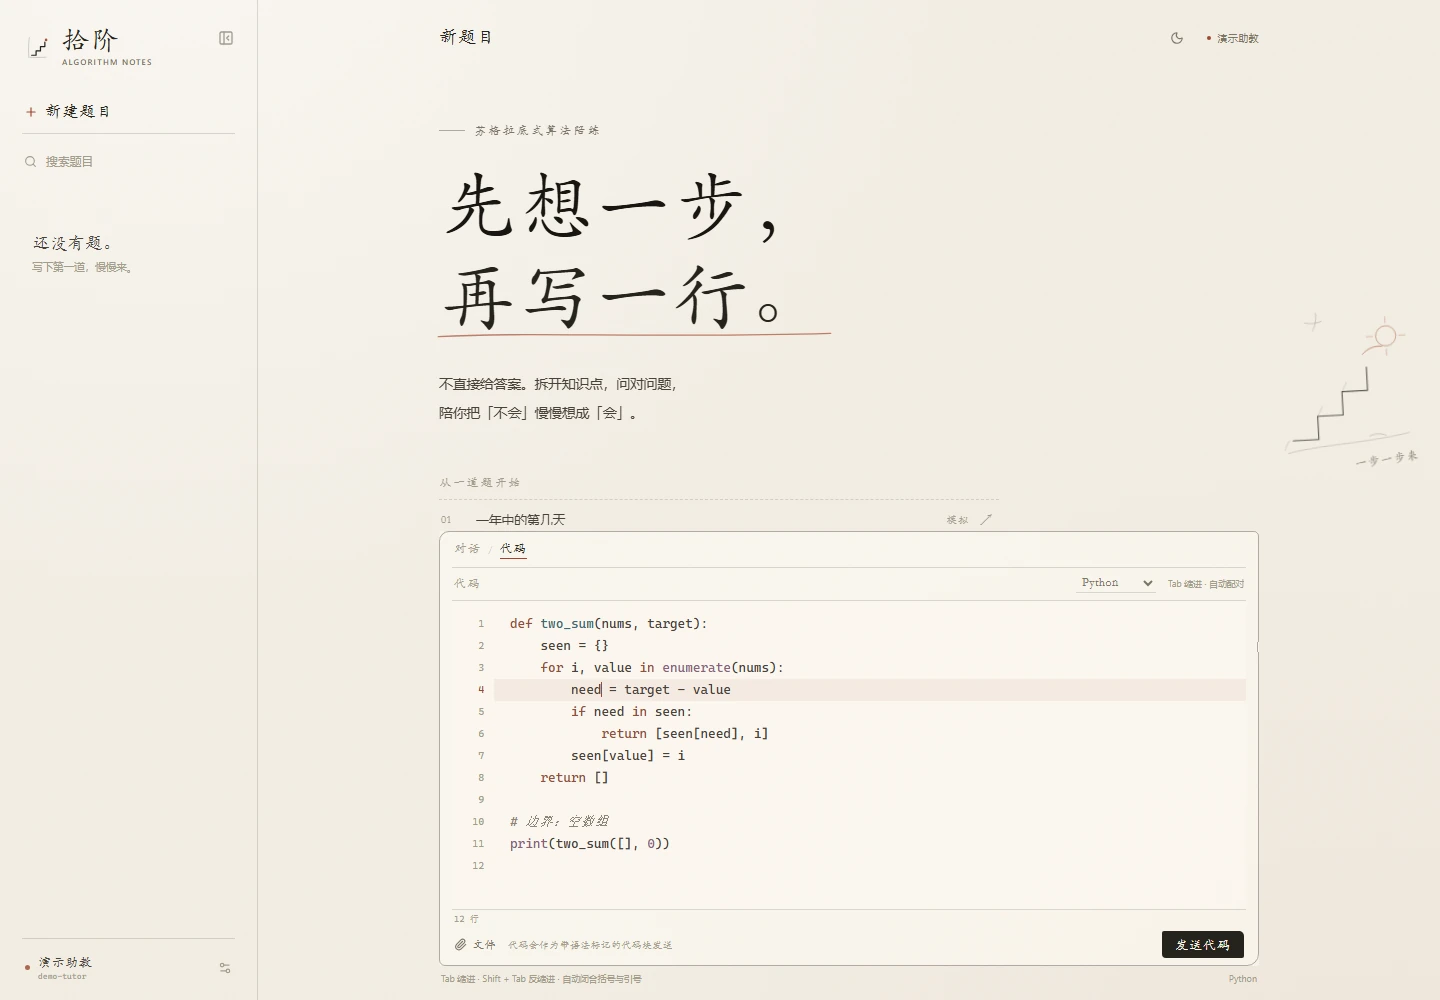
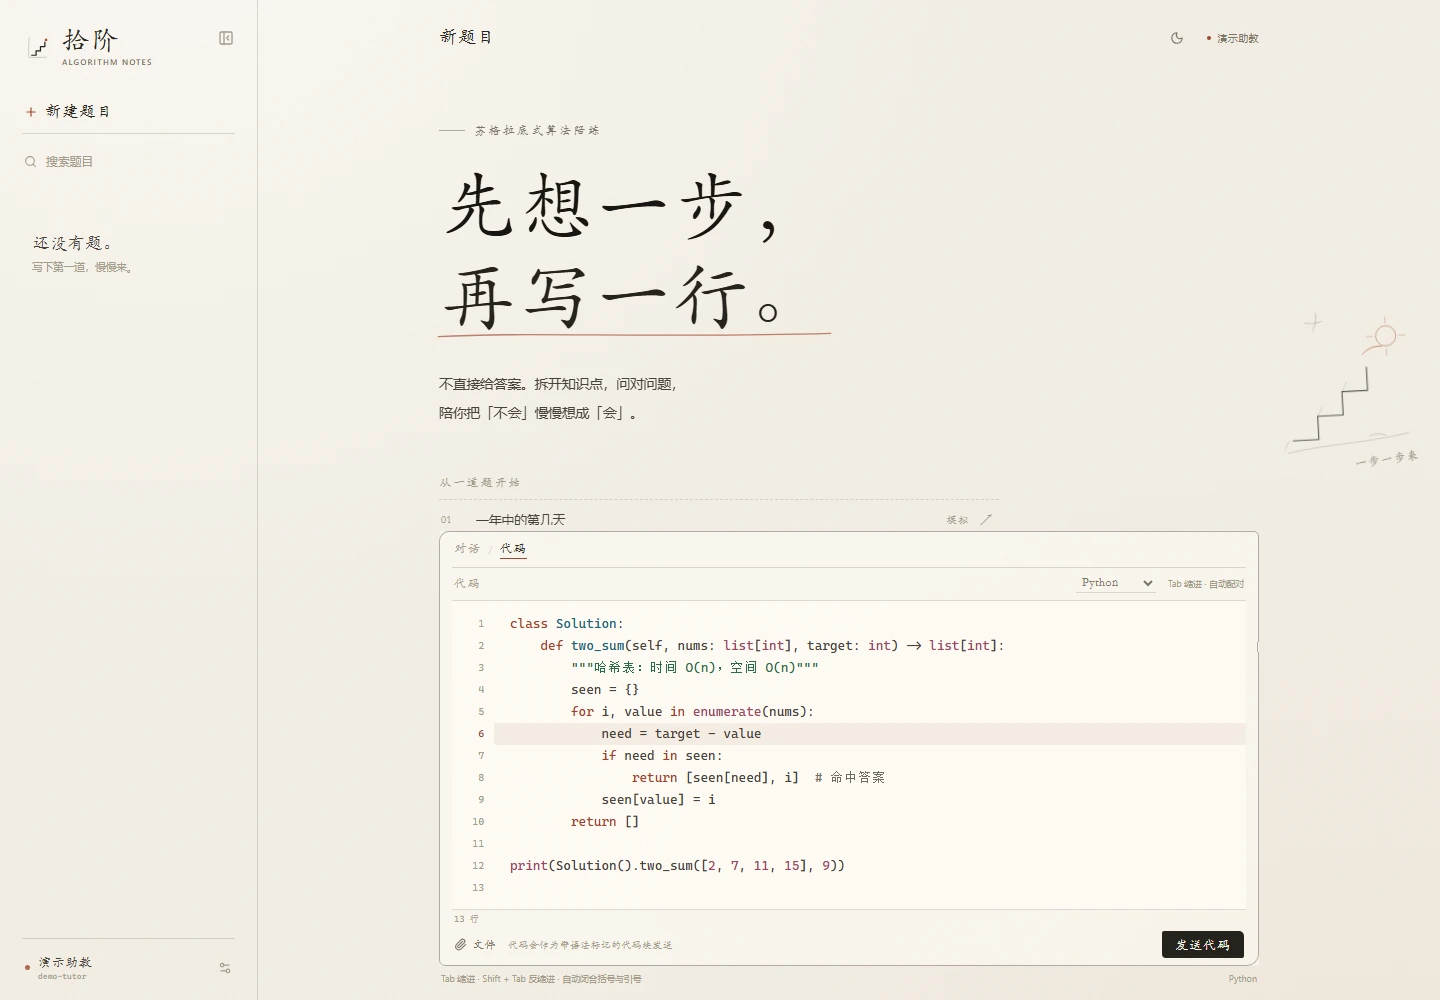
Improve light-mode syntax highlighting
- Add a higher-contrast dual-theme syntax palette for keywords, strings,
  built-ins, functions, types, variables, comments and operators
- Lighten the editor surface in light mode for clearer code contrast
- Normalize token font weight/style to keep highlight and textarea glyphs aligned
- Refresh editor screenshots

Changed region(s): [[0.3438, 0.62, 0.5625, 0.868], [0.6562, 0.62, 0.6875, 0.651], [0.5625, 0.62, 0.5938, 0.651]]

diff --git a/algo-tutor/src/styles.css b/algo-tutor/src/styles.css
@@ -30,8 +30,8 @@
   --panel-bg: rgba(252, 249, 242, 0.72);
   --composer-bg: rgba(252, 249, 242, 0.66);
   --composer-bg-focus: rgba(252, 249, 242, 0.85);
-  --editor-bg: rgba(252, 249, 242, 0.45);
-  --editor-current-line: rgba(158, 71, 47, 0.065);
+  --editor-bg: rgba(255, 252, 246, 0.7);
+  --editor-current-line: rgba(158, 71, 47, 0.08);
   --inline-code-bg: rgba(37, 35, 29, 0.055);
   --hover-bg: rgba(37, 35, 29, 0.045);
   --hover-bg-soft: rgba(37, 35, 29, 0.03);
@@ -45,14 +45,15 @@
   --danger-strong: #843a28;
   --status-green: #6c7e6a;
   --sketch-shadow: rgba(37, 35, 29, 0.05);
-  --editor-keyword: #914f3a;
-  --editor-string: #4f7357;
-  --editor-number: #8b5f7b;
-  --editor-title: #406a73;
-  --editor-comment: #8d8577;
-  --editor-variable: #7a6338;
-  --editor-type: #4f6e4d;
-  --editor-meta: #725984;
+  --editor-keyword: #a53f2b;
+  --editor-string: #2d6a45;
+  --editor-number: #a0445e;
+  --editor-title: #1f6274;
+  --editor-comment: #746b5e;
+  --editor-variable: #8a5a13;
+  --editor-type: #416d31;
+  --editor-meta: #6b478d;
+  --editor-operator: #7e6c58;
 
   --sidebar-width: 258px;
   --rail-width: 64px;
@@ -96,14 +97,15 @@
   --danger-strong: #e1a08a;
   --status-green: #93ad8f;
   --sketch-shadow: rgba(0, 0, 0, 0.32);
-  --editor-keyword: #d8a07e;
-  --editor-string: #a9c9ad;
-  --editor-number: #d0a6bd;
-  --editor-title: #a9cbd0;
-  --editor-comment: #7f877c;
-  --editor-variable: #d8c590;
-  --editor-type: #b2cbaa;
-  --editor-meta: #c9b1d6;
+  --editor-keyword: #f0a07d;
+  --editor-string: #a8d8b2;
+  --editor-number: #e6b0c8;
+  --editor-title: #99d2dc;
+  --editor-comment: #929b8f;
+  --editor-variable: #e8d092;
+  --editor-type: #c1dfb4;
+  --editor-meta: #d3b5e8;
+  --editor-operator: #c0b4a0;
 
   color-scheme: dark;
 }
@@ -4539,9 +4541,20 @@ button:focus:not(:focus-visible) {
   color: var(--accent);
 }
 
+/*
+ * 高亮层与透明 textarea 必须使用完全相同的字形度量。
+ * 主题 CSS 会给部分 token（如 section、emphasis）加粗/倾斜；这里统一复位，
+ * 否则长行中的光标会和高亮文字逐渐错开。
+ */
+.code-editor .code-highlight-scroll [class*="hljs-"] {
+  font-style: normal;
+  font-weight: inherit;
+}
+
 .code-editor .hljs-keyword,
 .code-editor .hljs-selector-tag,
-.code-editor .hljs-literal {
+.code-editor .hljs-literal,
+.code-editor .hljs-variable.language_ {
   color: var(--editor-keyword);
 }
 
@@ -4558,20 +4571,24 @@ button:focus:not(:focus-visible) {
 
 .code-editor .hljs-title,
 .code-editor .hljs-function .hljs-title,
-.code-editor .hljs-section {
+.code-editor .hljs-section,
+.code-editor .hljs-name,
+.code-editor .hljs-selector-id {
   color: var(--editor-title);
 }
 
 .code-editor .hljs-comment,
 .code-editor .hljs-quote {
   color: var(--editor-comment);
-  font-style: italic;
 }
 
 .code-editor .hljs-attr,
 .code-editor .hljs-attribute,
 .code-editor .hljs-variable,
-.code-editor .hljs-template-variable {
+.code-editor .hljs-template-variable,
+.code-editor .hljs-property,
+.code-editor .hljs-selector-class,
+.code-editor .hljs-selector-attr {
   color: var(--editor-variable);
 }
 
@@ -4582,8 +4599,14 @@ button:focus:not(:focus-visible) {
 
 .code-editor .hljs-meta,
 .code-editor .hljs-symbol,
-.code-editor .hljs-bullet {
+.code-editor .hljs-bullet,
+.code-editor .hljs-tag {
   color: var(--editor-meta);
+}
+
+.code-editor .hljs-operator,
+.code-editor .hljs-punctuation {
+  color: var(--editor-operator);
 }
 
 /* ==========================================================================
